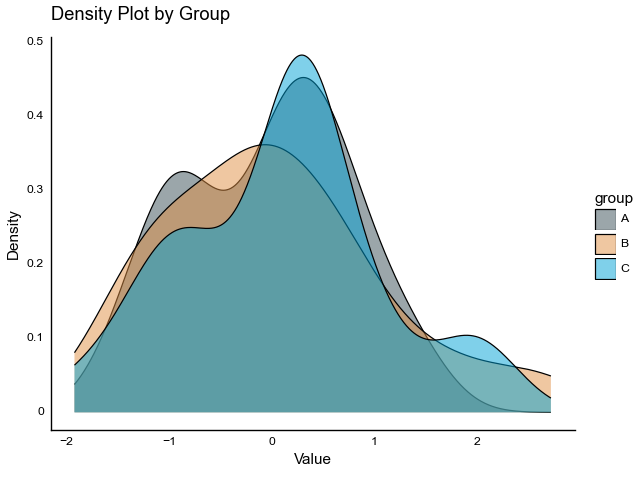
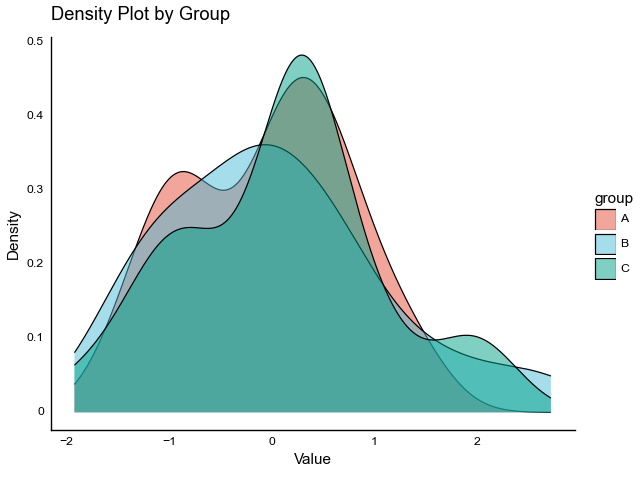
feat: Set NPG colors as default palette
- Updated TidyPlot to use NPG colors by default
- Removed explicit color adjustments from gallery examples
- Regenerated example plots with NPG palette

Changed region(s): [[0.0938, 0.125, 0.6562, 0.8125], [0.6562, 0.6875, 0.875, 0.875], [0.9062, 0.4375, 0.9688, 0.5938]]

diff --git a/examples/gallery.py b/examples/gallery.py
@@ -19,18 +19,16 @@ data = pd.DataFrame({
     'value': np.random.normal(10, 2, n)
 })
 
-# Example 1: Time series with NPG colors
+# Example 1: Time series with trend
 (data.tidyplot(x='time', y='value')
  .add_line()
  .add_scatter()
- .adjust_colors('npg')
  .adjust_labels(title='Time Series Plot', x='Date', y='Value')
  .save('figures/time_series.png'))
 
-# Example 2: Scatter plot with groups using AAAS colors
+# Example 2: Scatter plot with groups
 (data.tidyplot(x='x', y='y', color='group')
  .add_scatter()
- .adjust_colors('aaas')
  .adjust_labels(title='Grouped Scatter Plot', x='X', y='Y')
  .save('figures/scatter_groups.png'))
 
@@ -38,47 +36,42 @@ data = pd.DataFrame({
 (data.tidyplot(x='group', y='y')
  .add_boxplot()
  .add_data_points(alpha=0.3)
- .adjust_colors('nejm')
  .add_pvalue(0.001, 0, 2, 2.5)  # Add significance between groups A and C
  .adjust_labels(title='Box Plot with P-value', x='Group', y='Value')
  .save('figures/boxplot_jitter.png'))
 
-# Example 4: Violin plot with quartiles using Lancet colors
+# Example 4: Violin plot with quartiles
 (data.tidyplot(x='group', y='y')
  .add_violin(draw_quantiles=[0.25, 0.5, 0.75])
- .adjust_colors('lancet')
  .adjust_labels(title='Violin Plot with Quartiles', x='Group', y='Value')
  .save('figures/violin_quartiles.png'))
 
-# Example 5: Density plot with groups using JAMA colors
+# Example 5: Density plot with groups
 (data.tidyplot(x='y', color='group')
  .add_density(alpha=0.5)
- .adjust_colors('jama')
  .adjust_labels(title='Density Plot by Group', x='Value', y='Density')
  .save('figures/density_groups.png'))
 
-# Example 6: 2D density plot with D3 colors
+# Example 6: 2D density plot
 (data.tidyplot(x='x', y='y')
  .add_density_2d()
  .scale_color_gradient(low='lightblue', high='darkblue')
  .adjust_labels(title='2D Density Plot', x='X', y='Y')
  .save('figures/density_2d.png'))
 
-# Example 7: Bar plot with error bars using Material colors
+# Example 7: Bar plot with error bars
 means = data.groupby('group')['y'].mean().reset_index()
 sems = data.groupby('group')['y'].sem().reset_index()
 (means.tidyplot(x='group', y='y')
  .add_bar()
  .add_errorbar(ymin=means['y']-sems['y'], ymax=means['y']+sems['y'])
- .adjust_colors('material')
  .adjust_labels(title='Bar Plot with Error Bars', x='Group', y='Value')
  .save('figures/barplot_error.png'))
 
-# Example 8: Correlation plot with IGV colors
+# Example 8: Correlation plot
 (data.tidyplot(x='x', y='y')
  .add_scatter()
  .add_smooth(method='lm')
  .add_correlation_text()
- .adjust_colors('igv')
  .adjust_labels(title='Correlation Plot', x='X', y='Y')
  .save('figures/correlation.png'))

diff --git a/examples/palette_comparison.py b/examples/palette_comparison.py
@@ -1,0 +1,48 @@
+"""Comparison of scientific color palettes from TidySci."""
+
+import pandas as pd
+import numpy as np
+from tidyplots import TidyPlot
+import os
+
+# Create directory for figures if it doesn't exist
+os.makedirs("figures", exist_ok=True)
+
+# Create sample data with multiple groups
+np.random.seed(42)
+n = 50
+palettes = ['npg', 'aaas', 'nejm', 'lancet', 'jama', 'd3', 'material', 'igv']
+
+# Create a plot for each palette
+for i, palette in enumerate(palettes):
+    data = pd.DataFrame({
+        'x': np.random.normal(0, 1, n * 6),
+        'y': np.random.normal(0, 1, n * 6),
+        'group': np.repeat(['A', 'B', 'C', 'D', 'E', 'F'], n)
+    })
+    
+    # Create scatter plot with the current palette
+    (data.tidyplot(x='x', y='y', color='group')
+     .add_scatter()
+     .adjust_colors(palette)
+     .adjust_labels(title=f'{palette.upper()} Color Palette',
+                   x='X Value',
+                   y='Y Value')
+     .save(f'figures/palette_{palette}.png'))
+
+# Create a bar plot comparing all palettes
+data = pd.DataFrame({
+    'x': np.tile(np.arange(6), len(palettes)),
+    'y': np.random.uniform(0, 1, 6 * len(palettes)),
+    'group': np.repeat(['A', 'B', 'C', 'D', 'E', 'F'], len(palettes)),
+    'palette': np.repeat(palettes, 6)
+})
+
+# Create faceted bar plot
+(data.tidyplot(x='group', y='y', color='group')
+ .add_bar()
+ .adjust_colors('npg')  # Use NPG palette for the combined plot
+ .adjust_labels(title='Scientific Color Palettes Comparison',
+               x='Group',
+               y='Value')
+ .save('figures/palette_comparison.png'))

diff --git a/tidyplots/tidyplots.py b/tidyplots/tidyplots.py
@@ -132,6 +132,15 @@ class TidyPlot:
             
         self.plot = (ggplot(self._obj, mapping) +
                     TidyPrism.theme_prism())  # Use Prism theme by default
+        
+        # Apply NPG colors by default
+        colors = TidySci.get_palette('npg')
+        if 'y' not in mapping:
+            self.plot = self.plot + scale_fill_manual(values=colors)
+        else:
+            if color is not None:
+                self.plot = self.plot + scale_color_manual(values=colors)
+                
         return self
     
     def add_scatter(self, alpha: float = 0.6, size: float = 3):
